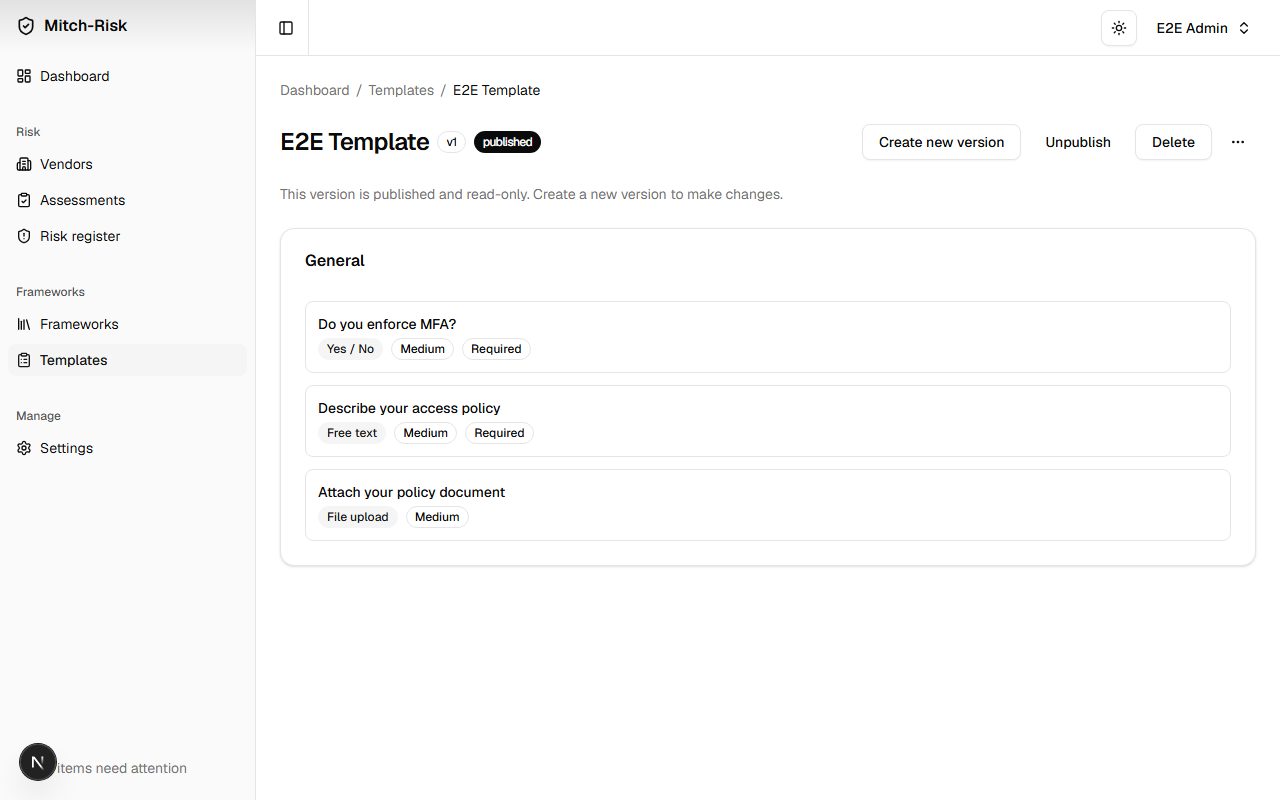
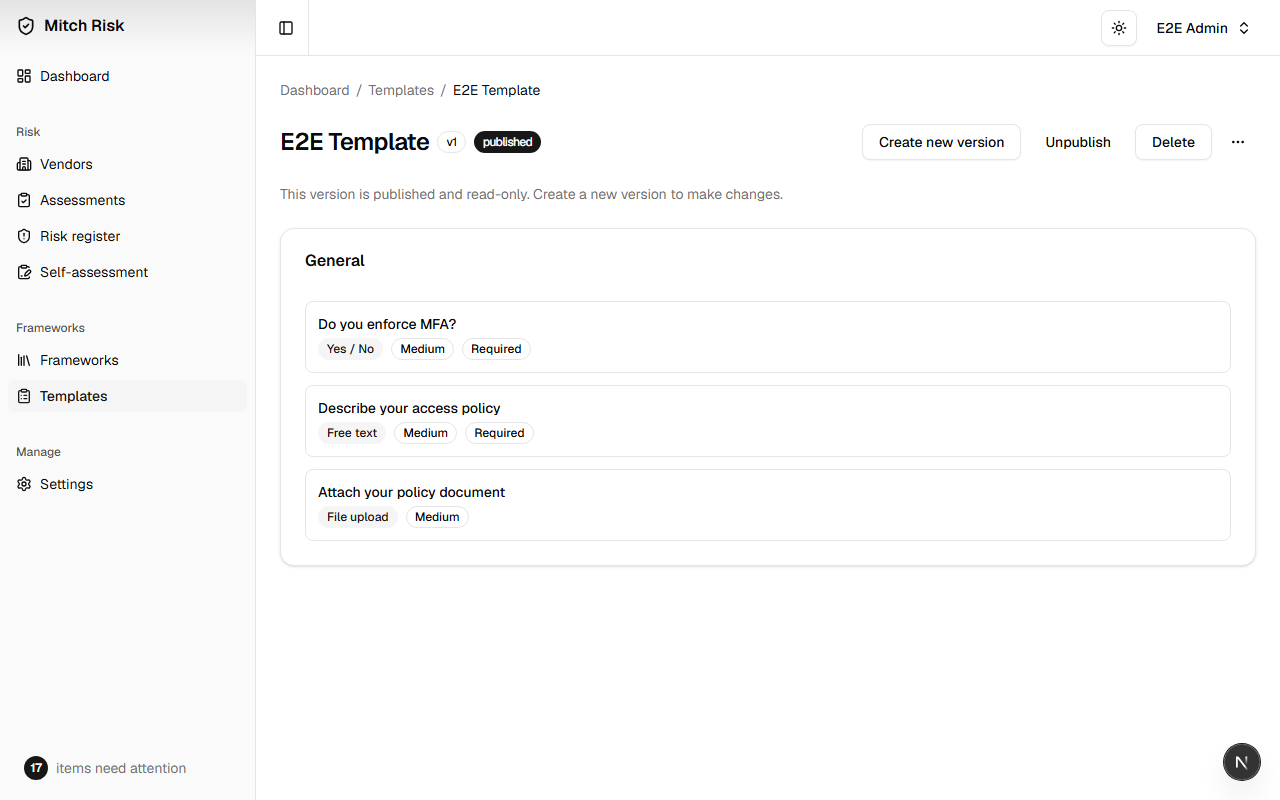
docs: full audit — fix inaccuracies (RBAC 22 perms, settings 16 tabs, vendor CSV fields), add self-assessment/webhooks/dashboard guides

diff --git a/docs/configuration/webhooks.md b/docs/configuration/webhooks.md
@@ -1,0 +1,117 @@
+# Webhooks
+
+Webhooks let your external systems receive real-time event notifications from Mitch‑Risk. When an assessment is submitted, a finding is created, or a certification is about to expire, a signed JSON payload is POSTed to your configured HTTPS endpoint.
+
+Configuration is under **Settings → Webhooks** (requires **Webhooks: manage** permission — Admin by default).
+
+## Event Types
+
+| Event | When It Fires |
+|---|---|
+| `ASSESSMENT_SUBMITTED` | A vendor submits their questionnaire (status changes to `SUBMITTED`) |
+| `ASSESSMENT_OVERDUE` | Cron detects an assessment past its due date |
+| `FINDING_CREATED` | Auto-scoring or manual review generates a new finding |
+| `FINDING_RESOLVED` | A finding's status changes to `REMEDIATED` or `RISK_ACCEPTED` |
+| `CERTIFICATION_EXPIRING` | A vendor certification is within 30 days of expiry |
+
+Each endpoint subscribes to the events you select — you can configure different endpoints for different event types.
+
+## Creating an Endpoint
+
+1. Go to **Settings → Webhooks**
+2. Click **Add endpoint**
+3. Enter the **HTTPS URL** that will receive the webhook
+4. Select the **events** to subscribe to (all checked by default)
+5. Click **Create**
+
+A signing secret is generated automatically for each endpoint. The secret is displayed once when the endpoint is created and is used to verify that incoming payloads originated from Mitch‑Risk.
+
+## Payload Format
+
+Every webhook delivery is an `HTTP POST` with a JSON body:
+
+```json
+{
+  "event": "ASSESSMENT_SUBMITTED",
+  "timestamp": "2026-07-11T10:30:00.000Z",
+  "data": {
+    "assessmentId": "cmrfr...",
+    "vendorId": "cmrfr...",
+    "vendorName": "Acme Corp",
+    "score": 0.85
+  }
+}
+```
+
+The `data` object varies by event type. Assessment events include the assessment ID, vendor information, and score when available. Finding events include the finding ID, severity, status, and assessment reference. Certification events include the certification name, vendor, and expiry date.
+
+## Verifying Payloads
+
+Every delivery includes an HMAC-SHA256 signature in the `X-MitchRisk-Signature` header:
+
+```
+X-MitchRisk-Signature: sha256=<hex-encoded-hmac>
+```
+
+**Verify deliveries on your end** to ensure they originated from Mitch‑Risk:
+
+```javascript
+// Node.js
+const crypto = require("crypto");
+
+function verifySignature(payload, signature, secret) {
+  const expected = crypto
+    .createHmac("sha256", secret)
+    .update(JSON.stringify(payload))
+    .digest("hex");
+  return crypto.timingSafeEqual(
+    Buffer.from(signature.replace("sha256=", "")),
+    Buffer.from(expected)
+  );
+}
+```
+
+```python
+# Python
+import hmac
+import hashlib
+
+def verify_signature(payload: bytes, signature: str, secret: str) -> bool:
+    expected = hmac.new(
+        secret.encode(), payload, hashlib.sha256
+    ).hexdigest()
+    received = signature.replace("sha256=", "")
+    return hmac.compare_digest(expected, received)
+```
+
+Always use constant-time comparison (`timingSafeEqual` / `compare_digest`) to prevent timing attacks.
+
+## Delivery Behaviour
+
+- **10-second timeout** — if your endpoint does not respond within 10 seconds, the delivery is considered failed
+- **No retries** — failed deliveries are not automatically retried. The platform logs a warning server-side
+- **No ordering guarantee** — events fire in the order they occur, but network delivery is best-effort
+- **Disabled endpoints** — endpoints that are disabled will not receive any deliveries
+
+## Managing Endpoints
+
+| Action | Description |
+|---|---|
+| **Enable / Disable** | Toggle an endpoint on or off without deleting it. Disabled endpoints retain their configuration and secret |
+| **Delete** | Permanently remove an endpoint. The secret is destroyed — you cannot recover a deleted endpoint's configuration |
+| **Event subscription** | Currently, events are selected at creation time. To change subscribed events, delete and re-create the endpoint |
+
+## Example: Slack Notification on Assessment Submission
+
+A common integration pattern is forwarding assessment submissions to a Slack channel. Set up a webhook endpoint pointing to your integration middleware (e.g., a small Cloudflare Worker or Lambda) that:
+
+1. Receives the `ASSESSMENT_SUBMITTED` event
+2. Verifies the `X-MitchRisk-Signature` header
+3. Formats a Slack message and posts it to your Slack incoming webhook
+
+## Security
+
+- **Secrets are stored encrypted** — webhook signing secrets are stored with AES-256-GCM encryption, same as SMTP passwords and SSO credentials
+- **Secrets shown once** — after creation, only the endpoint URL and event list are visible. If you lose a secret, delete and re-create the endpoint
+- **Payload verification is your responsibility** — the signature header is provided for verification; it is up to your receiving endpoint to validate it
+- **Use HTTPS** — webhook URLs should always use HTTPS to prevent payload interception

diff --git a/docs/user-guides/dashboard.md b/docs/user-guides/dashboard.md
@@ -1,0 +1,76 @@
+# Dashboard
+
+The dashboard is your portfolio-level view of vendor risk — metrics, charts, attention items, and navigation shortcuts in a single screen.
+
+## Top Metrics
+
+Four animated stat cards at the top of the dashboard give you an at-a-glance summary:
+
+| Card | What It Shows |
+|---|---|
+| **Vendors** | Total vendor count. If a score exists for the vendor, it pulls from the latest completed assessment |
+| **Assessments Active** | Count of assessments in `SENT` or `IN_PROGRESS` — questionnaires currently being completed by vendors |
+| **Open Findings** | Total unresolved findings across all vendors. Filterable by severity (Critical, High, Medium, Low) |
+| **Average Score** | Portfolio-wide average of all vendor overall scores |
+
+## Charts
+
+### Portfolio Risk Distribution (Donut)
+
+A donut chart breaking down your vendor portfolio by RAG classification:
+
+- **Green** — vendors with an overall score ≥ 85% (low risk)
+- **Amber** — vendors with an overall score between 60% and 84% (medium risk, monitor)
+- **Red** — vendors with an overall score below 60% (high risk, action needed)
+- **Unscored** — vendors with no completed assessments yet
+
+Clicking a segment highlights that risk band.
+
+### Open Findings by Severity (Bar Chart)
+
+A horizontal bar chart showing your open finding count broken down by severity: Critical, High, Medium, Low. Each bar is colour-coded using the RAG palette. Use this to quickly see where your most severe risk concentrations are.
+
+### Risk by Tier (Stacked Bar Chart)
+
+A stacked horizontal bar chart that layers the RAG distribution by vendor tier (Critical, High, Medium, Low). This shows you at a glance whether your CRITICAL-tier vendors are green (well-assessed and compliant) or red (they need urgent attention).
+
+## Needs Attention
+
+The **Needs Attention** section groups actionable items so you can focus on what matters:
+
+| Group | What It Contains | Why It Matters |
+|---|---|---|
+| **Overdue Assessments** | Assessments past their due date, grouped by vendor | These vendors haven't responded — risk is unknown |
+| **Below Threshold** | Vendors with overall scores below the amber RAG threshold (< 60%) | These vendors have significant compliance gaps |
+| **Key Dates** | Upcoming certification and contract expiries within 30 days | Proactive renewal tracking prevents lapses |
+
+Each group is expandable — click to see the individual items. The section header shows a count for each group so you know what needs attention without expanding.
+
+## Assessment Activity
+
+An interactive area chart showing assessment completion activity over time, with a configurable time range selector (7 days, 30 days, 90 days, 1 year). Hover over data points for details on specific assessments.
+
+## Keyboard Shortcuts
+
+Press **`?`** (question mark) or **`Ctrl+K`** (Windows/Linux) / **`Cmd+K`** (Mac) anywhere in the app to open the command palette — a searchable list of every page you have permission to access.
+
+| Key | Action |
+|---|---|
+| `?` or `Ctrl/Cmd+K` | Open / close the command palette |
+| `↑` / `↓` | Navigate through results |
+| `Enter` | Open the selected page |
+| `Esc` | Close the palette |
+
+Type to fuzzy-search by page name. The palette only shows pages your role has permission to access — a Viewer will not see settings or admin pages.
+
+## Idle Timeout
+
+If your session is inactive for longer than the configured session timeout (default: 30 minutes), a 60-second countdown appears. If you do not interact with the page before the countdown reaches zero, you are automatically signed out.
+
+The timeout is configurable under Settings → Limits. Setting it to `0` disables the timer entirely.
+
+The countdown resets on any mouse movement, keyboard input, scroll, or tap — you only need to interact with the page, not click anything specific.
+
+## Exporting Dashboard Data
+
+Click **Export Report** on the dashboard to generate a PDF portfolio report containing vendor scores, RAG distribution, open findings summary, and compliance coverage overview. Use this for board presentations or periodic review meetings.

diff --git a/docs/user-guides/vendors.md b/docs/user-guides/vendors.md
@@ -15,6 +15,8 @@ Vendors are the third-party organisations you assess. The vendor record stores p
 | **Service Description** | Description of the service or product provided |
 | **Risk Owner** | Internal staff member responsible for this vendor |
 | **Contract Renewal** | Date when the vendor contract is up for renewal |
+| **Contract Value** | Approximate annual value: `$0–$50K`, `$50K–$250K`, `$250K–$1M`, `$1M–$5M`, `$5M+` |
+| **Geographic Risk** | Where the vendor operates: `DOMESTIC`, `REGIONAL`, `GLOBAL`, `HIGH_RISK_JURISDICTION` |
 | **Notes** | Free-form notes about the vendor relationship |
 | **Overall Score** | Calculated from the most recent completed assessment (0–100%) |
 
@@ -71,7 +73,7 @@ Bulk-import or bulk-update vendors via CSV using a step-by-step wizard.
 2. **Upload** — Select a CSV file, or download the CSV template from the link provided on the page. The app parses the file and shows a preview of the first 10 rows.
 3. **Review** — Confirm the import. The summary shows how many rows will be processed. Click **Import vendors** to execute.
 
-**CSV columns:** `id` (optional — include to update an existing vendor), `name`, `contactemail` (both required), plus optional: `contactname`, `tier`, `website`, `notes`, `servicedescription`, `datasensitivity`, `contractrenewaldate`. Max file size: 1 MB.
+**CSV columns:** `id` (optional — include to update an existing vendor), `name`, `contactemail` (both required), plus optional: `contactname`, `tier`, `website`, `notes`, `servicedescription`, `datasensitivity`, `contractrenewaldate`, `contractvalue`, `geographicrisk`. Max file size: 1 MB.
 
 Rows with an `id` matching an existing vendor record will **update** that vendor instead of creating a new one. Rows without an `id` (or with an `id` not found) will create new vendor records. Invalid rows are skipped and reported in the result summary.
 
@@ -82,16 +84,16 @@ Download vendor data as a CSV file from the Vendors page using the **Export CSV*
 - **All vendors** — exports every vendor in the database (unfiltered, regardless of current search/tier filters).
 - **Current page** — exports only the vendors matching the current search, tier filter, sort, and page.
 
-The CSV includes columns: `id`, `name`, `contactname`, `contactemail`, `tier`, `website`, `notes`, `servicedescription`, `datasensitivity`, `contractrenewaldate`. The `id` column can be used to update vendors via import (see [Vendor Import](#vendor-import-csv)).
+The CSV includes columns: `id`, `name`, `contactname`, `contactemail`, `tier`, `website`, `notes`, `servicedescription`, `datasensitivity`, `contractrenewaldate`, `contractvalue`, `geographicrisk`. The `id` column can be used to update vendors via import (see [Vendor Import](#vendor-import-csv)).
 
 ## Vendor Comparison
 
-Compare two vendors side-by-side:
+Compare two vendors side-by-side or compare assessments from the same vendor to track changes over time:
 
-- **Same-vendor over time** — compare two assessments for the same vendor to see trend
-- **Cross-vendor** — compare assessments from different vendors against each other
-- **Score comparison** with RAG badges
-- **Domain-level breakdown** showing compliance by framework domain
+- **Same-vendor over time** — compare two assessments for the same vendor to see score trend and answer changes. Available from the vendor detail page (Risk Profile → Compare last two)
+- **Cross-vendor** — compare assessments from different vendors against each other via the vendor comparison page
+- **Score comparison** with RAG badges and trend indicators
+- **Answer diff** — side-by-side view showing previous and current responses with compliance change arrows
 - **Findings count** comparison by severity
 
-Use the **Compare** button on the vendor detail page or assessment list to initiate a comparison.
+Use the **Compare** button on the vendor list page to initiate a cross-vendor comparison.

diff --git a/docs/user-guides/self-assessment.md b/docs/user-guides/self-assessment.md
@@ -1,0 +1,49 @@
+# Self-Assessment
+
+Mitch‑Risk includes a self-assessment mode that lets you evaluate your own organization using the same questionnaire tools your vendors use. It uses the vendor portal workflow internally so you see exactly what your vendors see.
+
+## How It Works
+
+Self-assessment uses a built-in internal vendor record called **"My Organization"**. This vendor is created automatically the first time you visit the self-assessment page — no manual setup required.
+
+1. Go to **Self-Assessment** from the sidebar
+2. Click **Start new assessment**
+3. Choose a published template — e.g. an ISO 27001 self-assessment
+4. Give it a title and optional due date
+5. Click **Start assessment**
+
+The platform creates an assessment for "My Organization" and redirects you to the vendor portal. You answer the questions just like any external vendor would — auto-save, conditional logic, Markdown help text, and all.
+
+## Submitting and Reviewing
+
+When you submit:
+
+- The assessment status changes to `SUBMITTED`
+- Your answers are locked (read-only in the portal)
+- A reviewer on your team can open it for review, just like any vendor assessment
+- Scoring, findings generation, and compliance mapping work identically
+
+You can also request clarification, re-open, and resubmit — the same send-back-to-vendor workflow applies.
+
+## Tracking Self-Assessments
+
+The self-assessment landing page shows all your past self-assessments in a list with:
+
+- Assessment title and template
+- Status badge (Draft, Sent, In Progress, Submitted, Under Review, Completed)
+- Score badge when a score is available
+
+Click any assessment to jump to its detail page for full review.
+
+## When to Use Self-Assessment
+
+- **Internal gap analysis** — run a SOC 2 or ISO 27001 questionnaire against yourself before sending it to vendors, so you understand the questions and identify your own gaps
+- **Pre-audit preparation** — complete assessments against the frameworks you expect auditors to evaluate
+- **Team training** — new reviewers can complete a self-assessment to learn the questionnaire flow without involving an external party
+- **Baseline tracking** — assess your own posture over time and compare against vendor scores
+
+## Limitations
+
+- Self-assessments use a single internal vendor ("My Organization") — you cannot create multiple internal vendor profiles or assess individual departments separately
+- The internal vendor has no contact email for invites since you're completing it yourself — no email is sent
+- Self-assessments appear in the same assessment list and risk register as vendor assessments — the "My Organization" vendor is visible in the vendors list

diff --git a/docs/user-guides/rbac.md b/docs/user-guides/rbac.md
@@ -1,8 +1,8 @@
 # RBAC & Roles
 
-Mitch‑Risk uses **permission-based** access control, not "is authenticated" gating. Three system roles are built in, and admins can create custom roles with any combination of the 21 fine-grained permissions.
+Mitch‑Risk uses **permission-based** access control, not "is authenticated" gating. Three system roles are built in, and admins can create custom roles with any combination of the 22 fine-grained permissions.
 
-## Permission Catalog (21 Permissions)
+## Permission Catalog (22 Permissions)
 
 ### Vendors (4)
 
@@ -49,12 +49,13 @@ Mitch‑Risk uses **permission-based** access control, not "is authenticated" ga
 | `roles:manage` | Create, edit, delete, duplicate roles |
 | `settings:manage` | Manage all in-app settings (email, scoring, branding, storage, etc.) |
 | `api:manage` | Create, revoke, enable, delete API keys |
+| `webhooks:manage` | Create, edit, enable, delete webhook endpoints |
 
 ## Default System Roles
 
 | Role | Permissions | Who It's For |
 |------|:----------:|--------------|
-| **Admin** | 21 (all) | Full platform control. Locked — cannot be deleted or edited. |
+| **Admin** | 22 (all) | Full platform control. Locked — cannot be deleted or edited. |
 | **Reviewer** | 16 | Staff who manage vendors and assessments. Cannot manage users, roles, settings, API, or view audit. |
 | **Viewer** | 4 | Read-only: `vendors:view`, `assessments:view`, `templates:view`, `frameworks:view` |
 
@@ -69,7 +70,7 @@ Admins can create custom roles in **Settings → Roles**:
 3. Select the permissions to grant.
 4. Assign the role to any user.
 
-Custom roles can have any subset of the 21 permissions. Use them to create role profiles like "Auditor" (audit + view only), "Vendor Manager" (vendors + assessments + templates), or "API-only" (just the relevant API permission set).
+Custom roles can have any subset of the 22 permissions. Use them to create role profiles like "Auditor" (audit + view only), "Vendor Manager" (vendors + assessments + templates), or "API-only" (just the relevant API permission set).
 
 ## Enforcement
 
@@ -108,3 +109,4 @@ Access control is enforced at every layer:
 | Manage roles | Yes | No | No |
 | Manage settings | Yes | No | No |
 | Manage API keys | Yes | No | No |
+| Manage webhooks | Yes | No | No |

diff --git a/docs/README.md b/docs/README.md
@@ -71,15 +71,18 @@ A lightweight, self-hosted third party vendor risk management solution. Build se
 | Section | What You'll Learn |
 |---------|-------------------|
 | [Quick Start](quick-start.md) | Get up and running in minutes with Docker Compose |
+| [Dashboard](user-guides/dashboard.md) | Portfolio metrics, charts, keyboard shortcuts, and idle timeout |
 | [Templates](user-guides/templates.md) | Build and publish assessment templates |
 | [Assessments](user-guides/assessments.md) | Send, score, and manage vendor assessments |
 | [Review & Findings](user-guides/review.md) | Review responses and manage findings |
 | [Scoring Methodology](user-guides/scoring.md) | Understand inherent risk, weighted scoring, RAG, and residual risk |
+| [Self-Assessment](user-guides/self-assessment.md) | Assess your own organization using the vendor portal |
 | [Vendors](user-guides/vendors.md) | Manage vendor profiles, certifications, and attachments |
 | [RBAC & Roles](user-guides/rbac.md) | Configure permissions and access control |
 | [SSO](configuration/sso.md) | Set up single sign-on with Entra ID, Google, or OIDC |
 | [Email](configuration/email.md) | Configure SMTP, email templates, and logging |
 | [Scoring](configuration/scoring.md) | Tune risk weights and RAG thresholds |
+| [Webhooks](configuration/webhooks.md) | Configure outbound event notifications |
 | [Cron & Automation](advanced/cron.md) | Schedule reminders, escalations, recurring assessments |
 | [Security](advanced/security.md) | Auth methods, API keys, CSP, encryption |
 | [API Reference](api-reference/overview.md) | Integrate with the REST API |

diff --git a/docs/user-guides/assessments.md b/docs/user-guides/assessments.md
@@ -134,5 +134,14 @@ The assessment detail page shows:
 - **Review panel** — collapsible per-question review with approve/clarify actions
 - **Comments** — threaded, per-question, with internal/vendor visibility control
 - **Findings panel** — linked findings with status and control codes
-- **Evidence** — uploaded files with download links
-- **Activity timeline** — chronological log of all assessment events
+- **Evidence** — uploaded files with inline preview (PDFs open in a side sheet, images display in-line)
+- **Activity timeline** — interactive area chart showing assessment activity over time with configurable time range
+
+## Comparing Assessments
+
+Compare two assessments to see what changed between submissions:
+
+- **Same-vendor over time** — pick two assessments for the same vendor to see score trend and which answers changed
+- **Compliance change badges** — arrows show whether each answer's compliance improved (↑), degraded (↓), or stayed the same
+- **Answer diff** — side-by-side comparison showing previous and current answers for each question
+- Navigate from the vendor detail page via **Compare last two** or from the assessment list

diff --git a/docs/_sidebar.md b/docs/_sidebar.md
@@ -3,10 +3,12 @@
   - [Screenshots](welcome/screenshots.md)
   - [Quick Start](quick-start.md)
 - **User Guides**
+  - [Dashboard](user-guides/dashboard.md)
   - [Templates](user-guides/templates.md)
   - [Assessments](user-guides/assessments.md)
   - [Review & Findings](user-guides/review.md)
   - [Scoring Methodology](user-guides/scoring.md)
+  - [Self-Assessment](user-guides/self-assessment.md)
   - [Vendors](user-guides/vendors.md)
   - [RBAC & Roles](user-guides/rbac.md)
 - **Configuration**
@@ -15,6 +17,7 @@
   - [SSO](configuration/sso.md)
   - [Email](configuration/email.md)
   - [Scoring](configuration/scoring.md)
+  - [Webhooks](configuration/webhooks.md)
 - **API Reference**
   - [Overview](api-reference/overview.md)
   - [Vendors](api-reference/vendors.md)

diff --git a/docs/configuration/overview.md b/docs/configuration/overview.md
@@ -2,7 +2,7 @@
 
 All operational settings in Mitch‑Risk are managed through the in-app **Settings** page. There are no YAML config files, no environment variables to tweak after deployment, and no manual database edits required. Every option is configurable via the UI by users with the **Settings: manage** permission.
 
-The Settings page is organised into 15 tabs. Ten are configuration forms, three are management screens (Users, Roles, API), one is a read-only audit log, and one is a system health dashboard.
+The Settings page is organised into 16 tabs. Eleven are configuration forms, three are management screens (Users, Roles, API), one is a webhook endpoint manager, one is a read-only audit log, and one is a system health dashboard.
 
 ---
 
